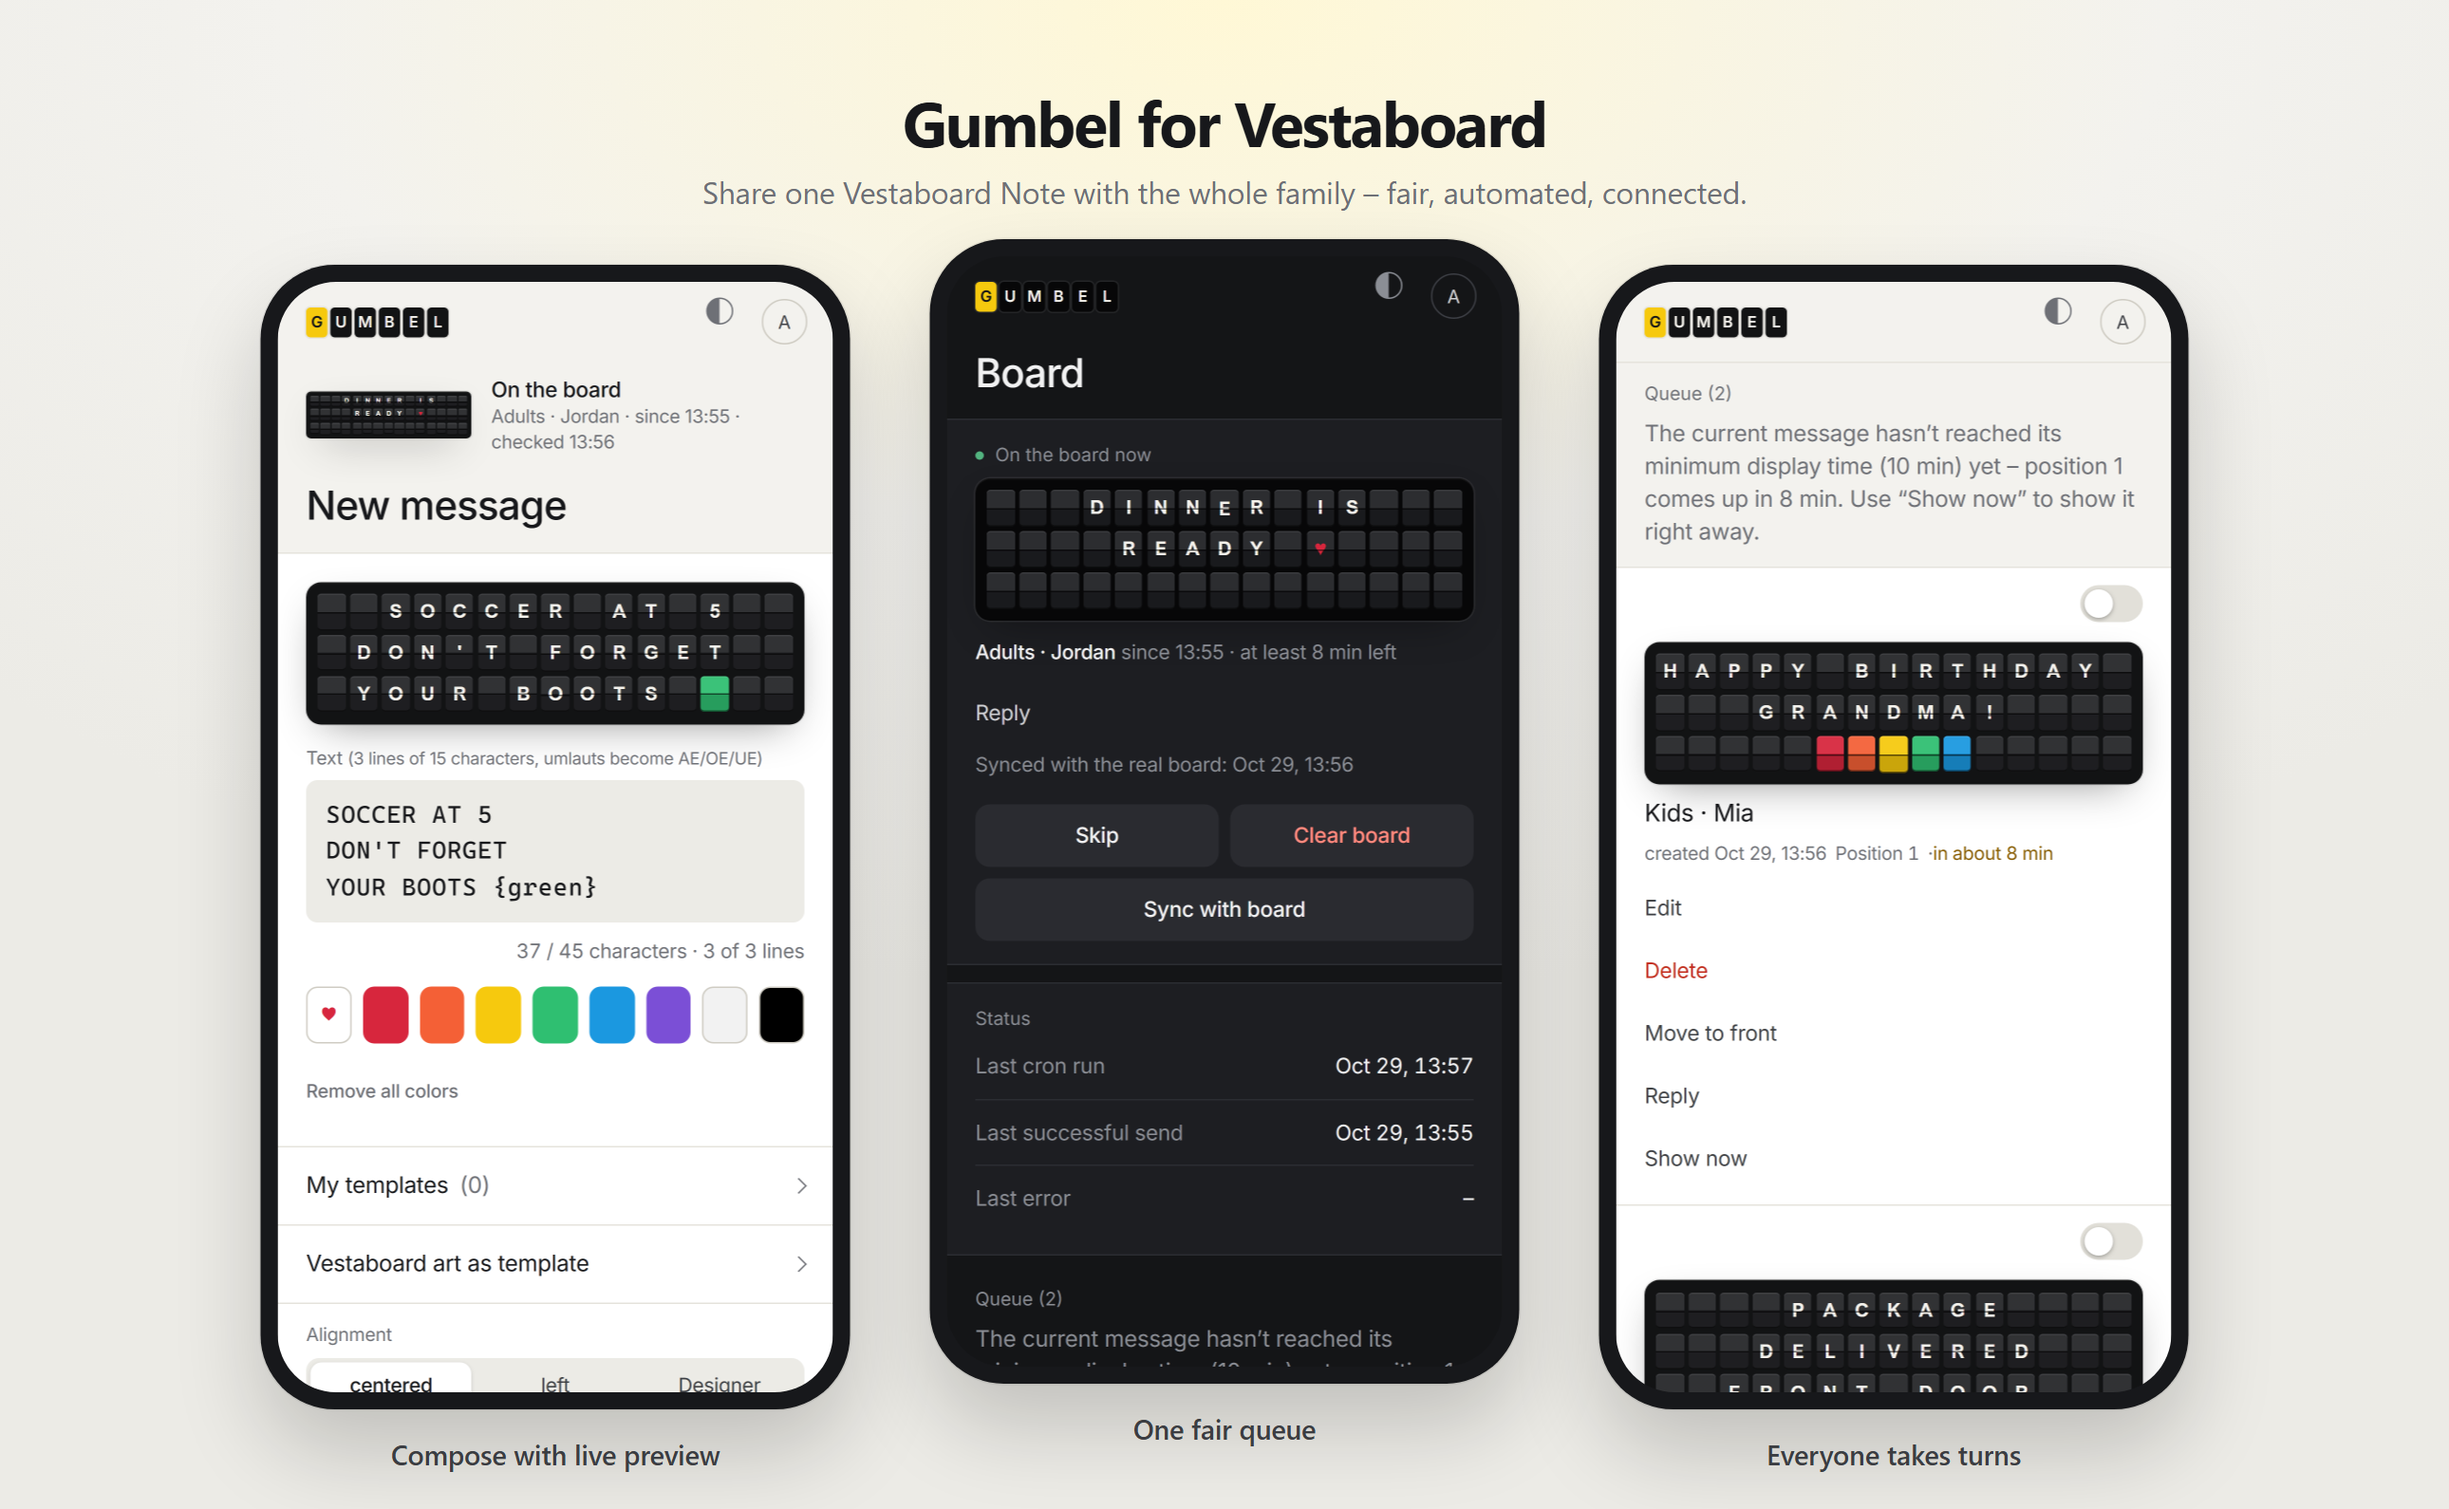
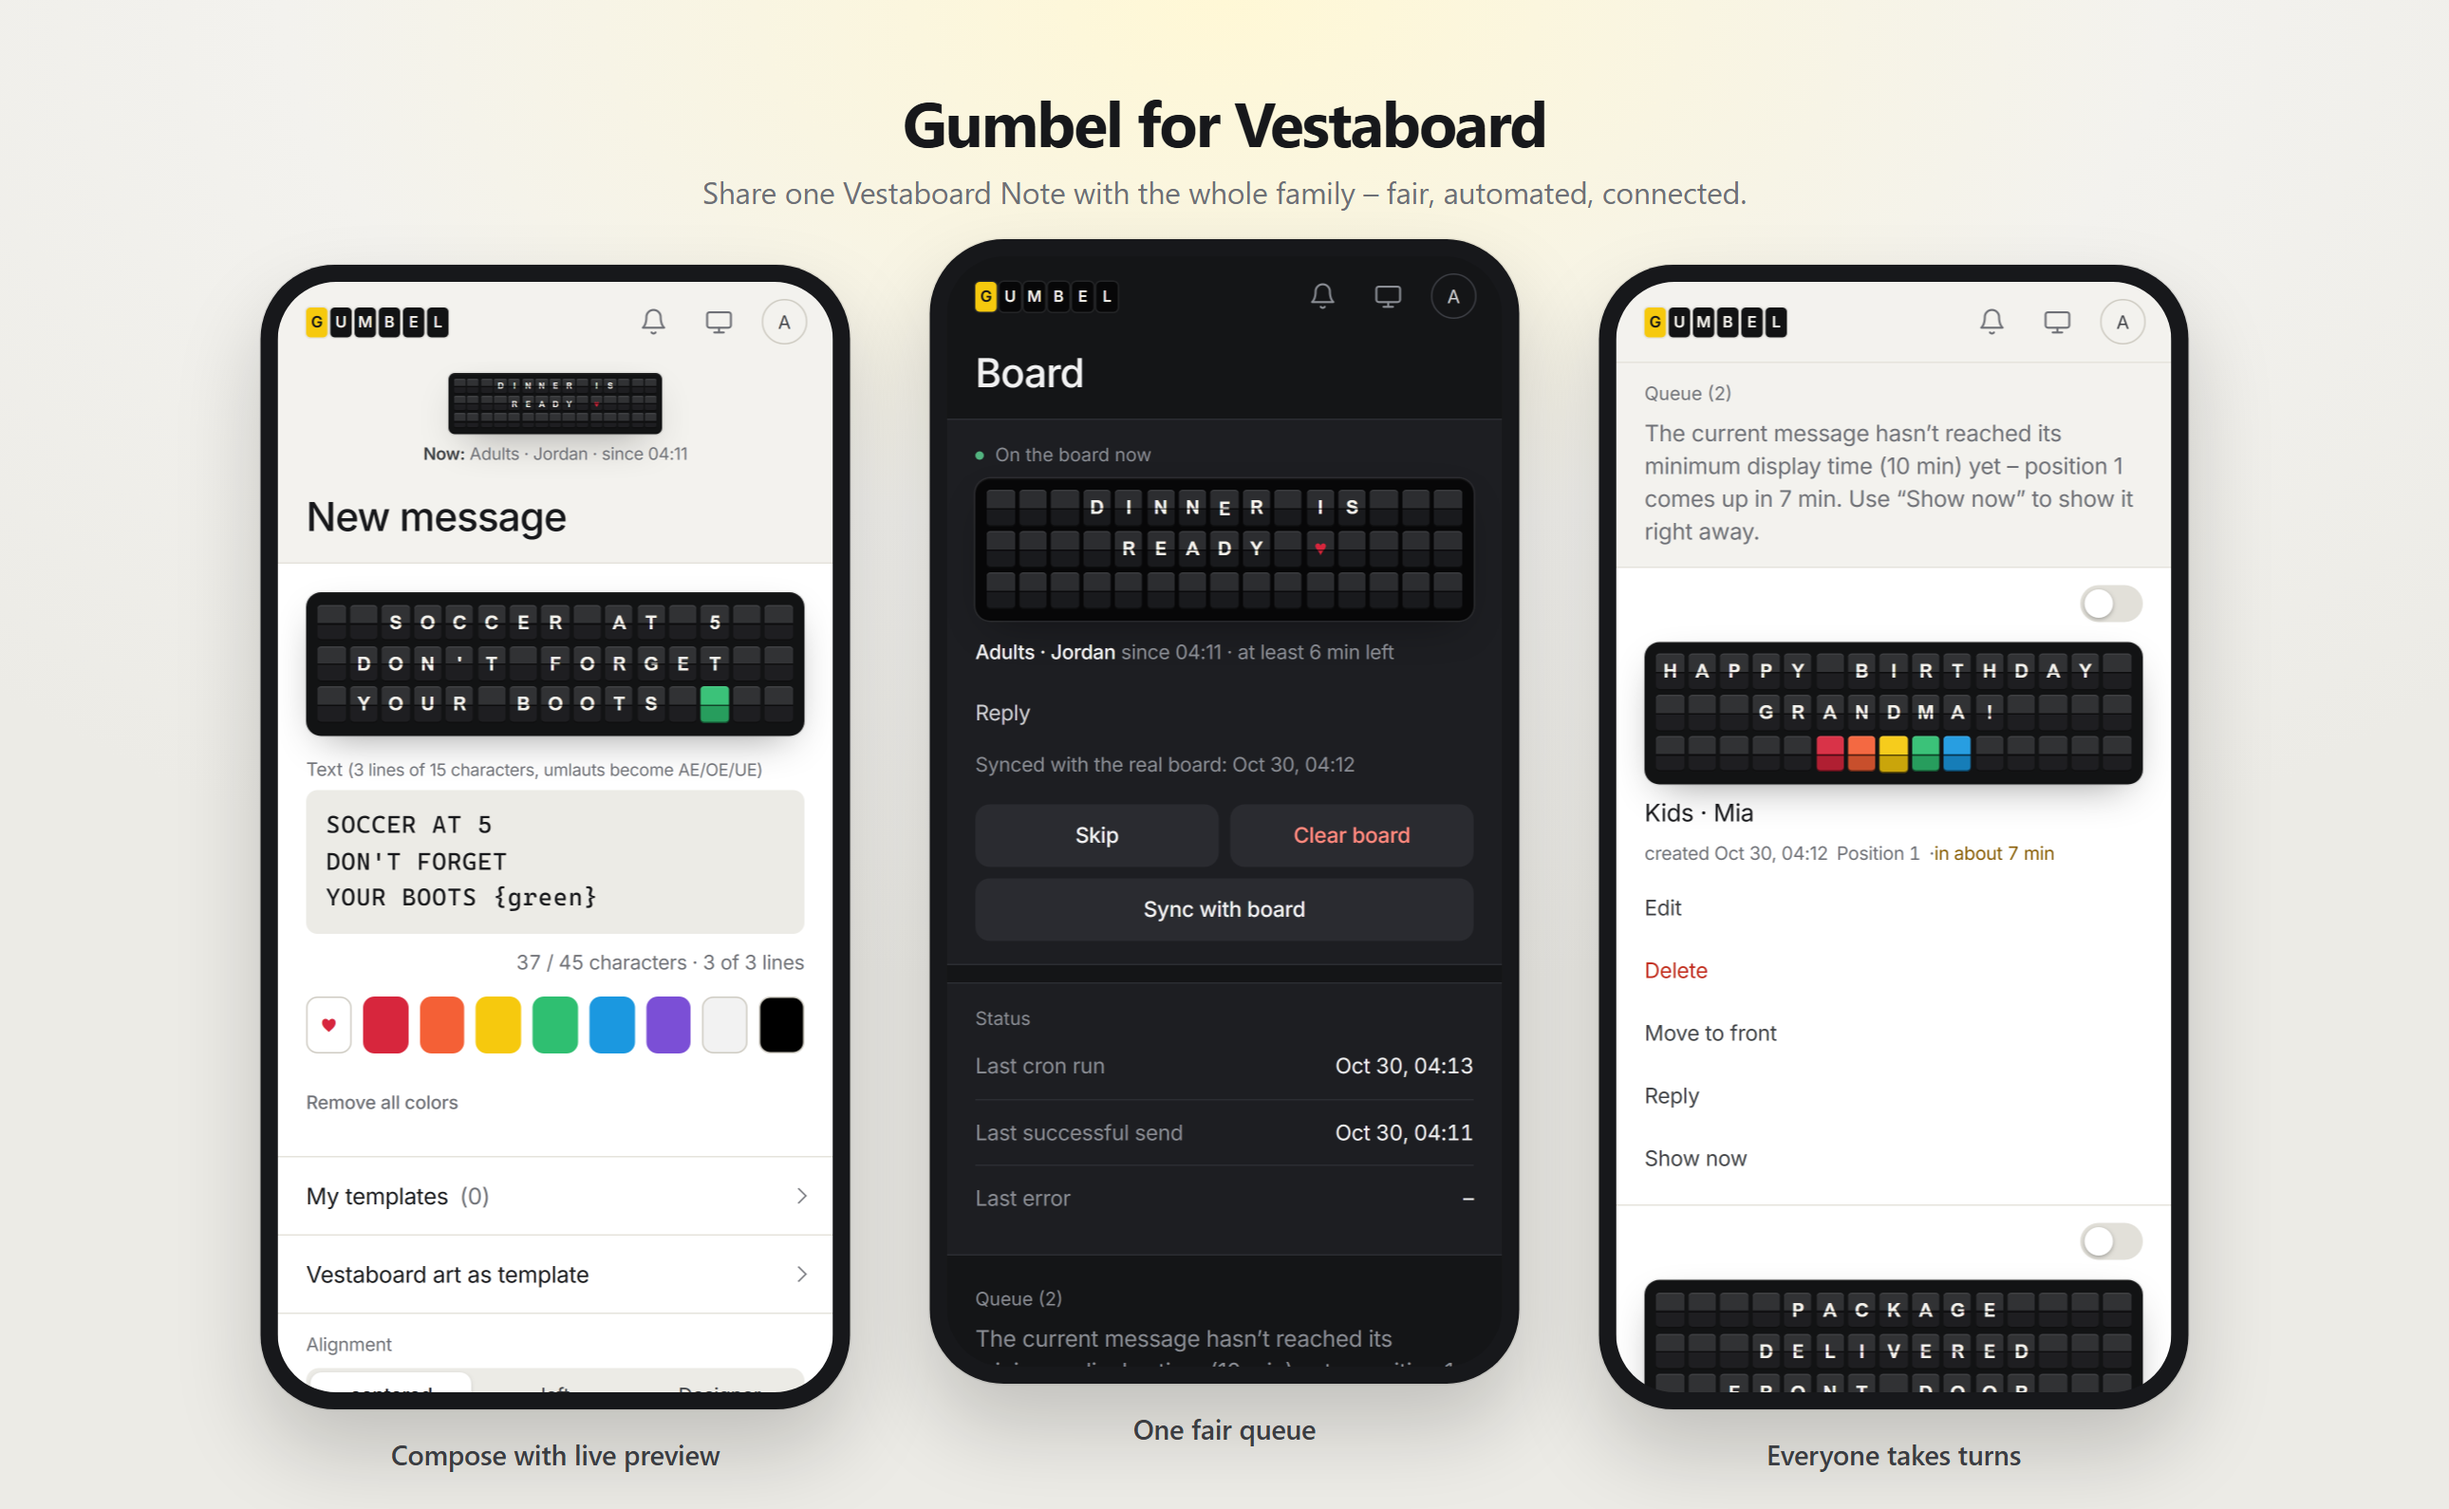
New screenshots (live board, header, guest mailbox, quick mute); guest page spacing

diff --git a/scripts/demo.php b/scripts/demo.php
@@ -69,6 +69,10 @@ $settings->set('automation_clock', ['enabled' => true, 'interval' => 60, 'style'
 $settings->set('automation_pool', ['enabled' => true, 'items' => \Vesta\Sayings::ALL_EN, 'inactive' => [], 'order' => [], 'art' => ['rainbow', 'love'], 'interval' => 90,
     'windows' => [['days' => [1, 2, 3, 4, 5, 6, 7], 'from' => '08:00', 'to' => '20:00']]]);
 $settings->set('custom_sources', [['id' => 'c_bookings', 'label' => $en ? 'Bookings' : 'Buchungen', 'duration' => 10]]);
+// Briefkasten offen (fester Demo-Link) und Nachrichten zu festen Zeiten
+$settings->set('guest_post', ['enabled' => true, 'token' => 'demo-mailbox-link'] + \Vesta\GuestPost::DEFAULTS);
+$settings->set('automation_news', ['enabled' => true, 'feed' => $en ? 'bbc' : 'tagesschau', 'url' => '', 'count' => 2,
+    'times' => [['days' => [1, 2, 3, 4, 5], 'time' => '07:00'], ['days' => [6, 7], 'time' => '09:00']]]);
 
 // Integration mit Testmodus-Payload
 $inbound = new Inbound($pdo, $messages, new SystemClock());

diff --git a/public/post.php b/public/post.php
@@ -55,7 +55,7 @@ View::header(t('Nachricht ans Board'), null);
 <?php endif; ?>
 <p class="muted"><?= View::e(t('Schreib einen kurzen Gruß – er erscheint auf dem Vestaboard. Du brauchst kein Konto.')) ?></p>
 
-<form method="post" action="post.php" class="compose" data-busy data-preview>
+<form method="post" action="post.php" class="card compose" data-busy data-preview>
     <?= Csrf::field() ?>
     <input type="hidden" name="t" value="<?= View::e($token) ?>">
     <div class="hp" aria-hidden="true"><label>Website <input name="website" tabindex="-1" autocomplete="off"></label></div>

diff --git a/README.md b/README.md
@@ -43,6 +43,10 @@ Gumbel puts **one fair queue** in front of your board: every message waits its t
   <img src="docs/screenshots/integrations.png" alt="Webhook test mode with payload fields and template preview" width="860">
 </p>
 
+<p align="center">
+  <img src="docs/screenshots/guests.png" alt="Guest mailbox, one-tap mute and QR code" width="860">
+</p>
+
 ## Quick start (Docker)
 
 > 🧭 **New to Docker or servers?** Follow the **[step-by-step installation guide](docs/en/INSTALL.md)** – Docker Desktop, Synology, Raspberry Pi or web hosting, with troubleshooting.
